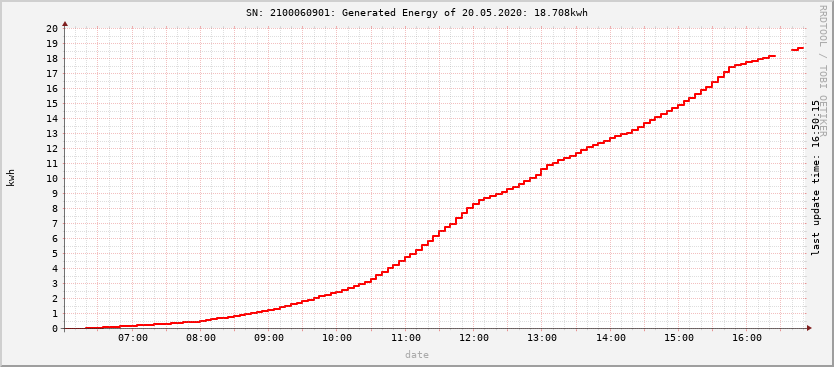
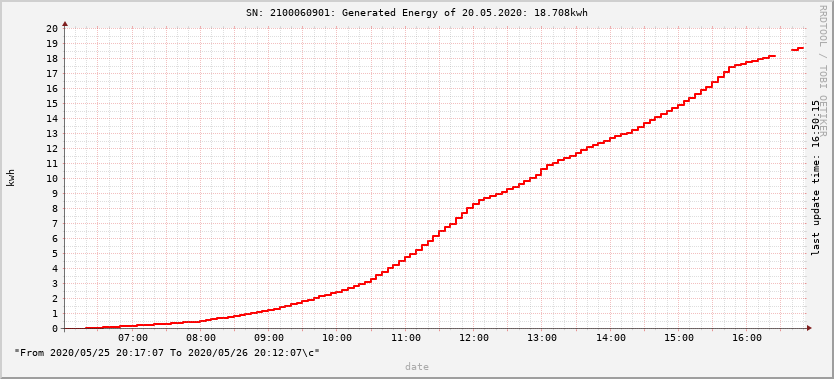
extend gitignore
ignor a files of folder rrd/, csv/ and logfile

Changed region(s): [[0.0312, 0.0, 0.9976, 0.9591], [0.0, 0.4496, 0.0312, 0.5095]]

diff --git a/rrdtool_wrapper.py b/rrdtool_wrapper.py
@@ -17,12 +17,29 @@ def creator_rrd(rrdfile_name, starttime, step):
             rrdfile_name,
             "--start", starttime,
             "--step", step,
+            # "DS:etoday:GAUGE:600:0:50000",
+            # "RRA:AVERAGE:0.5:1:200",
+            # "RRA:AVERAGE:0.5:200:7",
+            # "RRA:AVERAGE:0.5:1400:4",
+            # "RRA:AVERAGE:0.5:5200:12",
+            # "RRA:AVERAGE:0.5:62400:10")
             "DS:etoday:GAUGE:600:0:50000",
-            "RRA:AVERAGE:0.5:1:200",
-            "RRA:AVERAGE:0.5:200:7",
-            "RRA:AVERAGE:0.5:1400:4",
-            "RRA:AVERAGE:0.5:5200:12",
-            "RRA:AVERAGE:0.5:62400:10")
+            "RRA:AVERAGE:0.5:1:600",
+            "RRA:AVERAGE:0.5:6:700",
+            "RRA:AVERAGE:0.5:24:775",
+            "RRA:AVERAGE:0.5:288:797",
+            "RRA:MIN:0.5:1:600",
+            "RRA:MIN:0.5:6:700",
+            "RRA:MIN:0.5:24:775",
+            "RRA:MIN:0.5:288:797",
+            "RRA:MAX:0.5:1:600",
+            "RRA:MAX:0.5:6:700",
+            "RRA:MAX:0.5:24:775",
+            "RRA:MAX:0.5:288:797",
+            "RRA:LAST:0.5:1:600",
+            "RRA:LAST:0.5:6:700",
+            "RRA:LAST:0.5:24:775",
+            "RRA:LAST:0.5:288:797")
         create_status_msg = f"{rrdfile_name} was created successfully"
     except:
         create_status_msg = f"rrd creation error: {sys.exc_info()[1]}"
@@ -50,6 +67,17 @@ def updater_rrd(rrdfile_name, value):
             update_status_msg = f"error: rrd update error: {sys.exc_info()[1]}"
     return update_status_msg
 
+def rrd_info(rrdfile_name):
+    info_status_msg = ""
+    #is the given file a rrd
+    try:
+        db_info = rrdtool.info(rrdfile_name)
+        print(db_info)
+        info_status_msg = f"success: {rrdfile_name}: was read successfully"
+    except:
+        info_status_msg = f"error: rrd update error: {sys.exc_info()[1]}"
+    return info_status_msg
+
 
 def grapher_rrd(rrd_filename, devicename, image_name, image_typ, starttime, endtime, last_time, last_update):
     graph_status_msg = ""
@@ -67,7 +95,8 @@ def grapher_rrd(rrd_filename, devicename, image_name, image_typ, starttime, endt
                       '--vertical-label', "kwh",
                       '--right-axis-label', f"last update time: {last_time.split(' ')[1]}",
                       f"{rrd_def}",
-                      "LINE2:kwh_etoday#FF0000")
+                      "LINE2:kwh_etoday#FF0000",
+                      'COMMENT:"From 2020/05/25 20\:17\:07 To 2020/05/26 20\:12\:07\c"')
         graph_status_msg = f"success: {image_name} was successfully generated"
     except:
         graph_status_msg = f"error: rrd graph error: {sys.exc_info()[1]}"

diff --git a/csv2rrd.py b/csv2rrd.py
@@ -116,7 +116,7 @@ def main():
     else:
         job_status = f"There are no given args on the commandline so use {csv_filename} (by default)"
         l.i(job_status)
-        csv = read_csv(csv_filename)
+        csv_file_entity = read_csv(csv_filename)
         ug_or_cug(rrd_filename, rrd_heartbeat, csv_file_entity)
 
 main()

diff --git a/csv_read.py b/csv_read.py
@@ -1,3 +1,4 @@
+#!/usr/bin/python3
 # read data of a csv-file and print specific keys with related values of the csv to the console within a loop
 import re
 import sys
